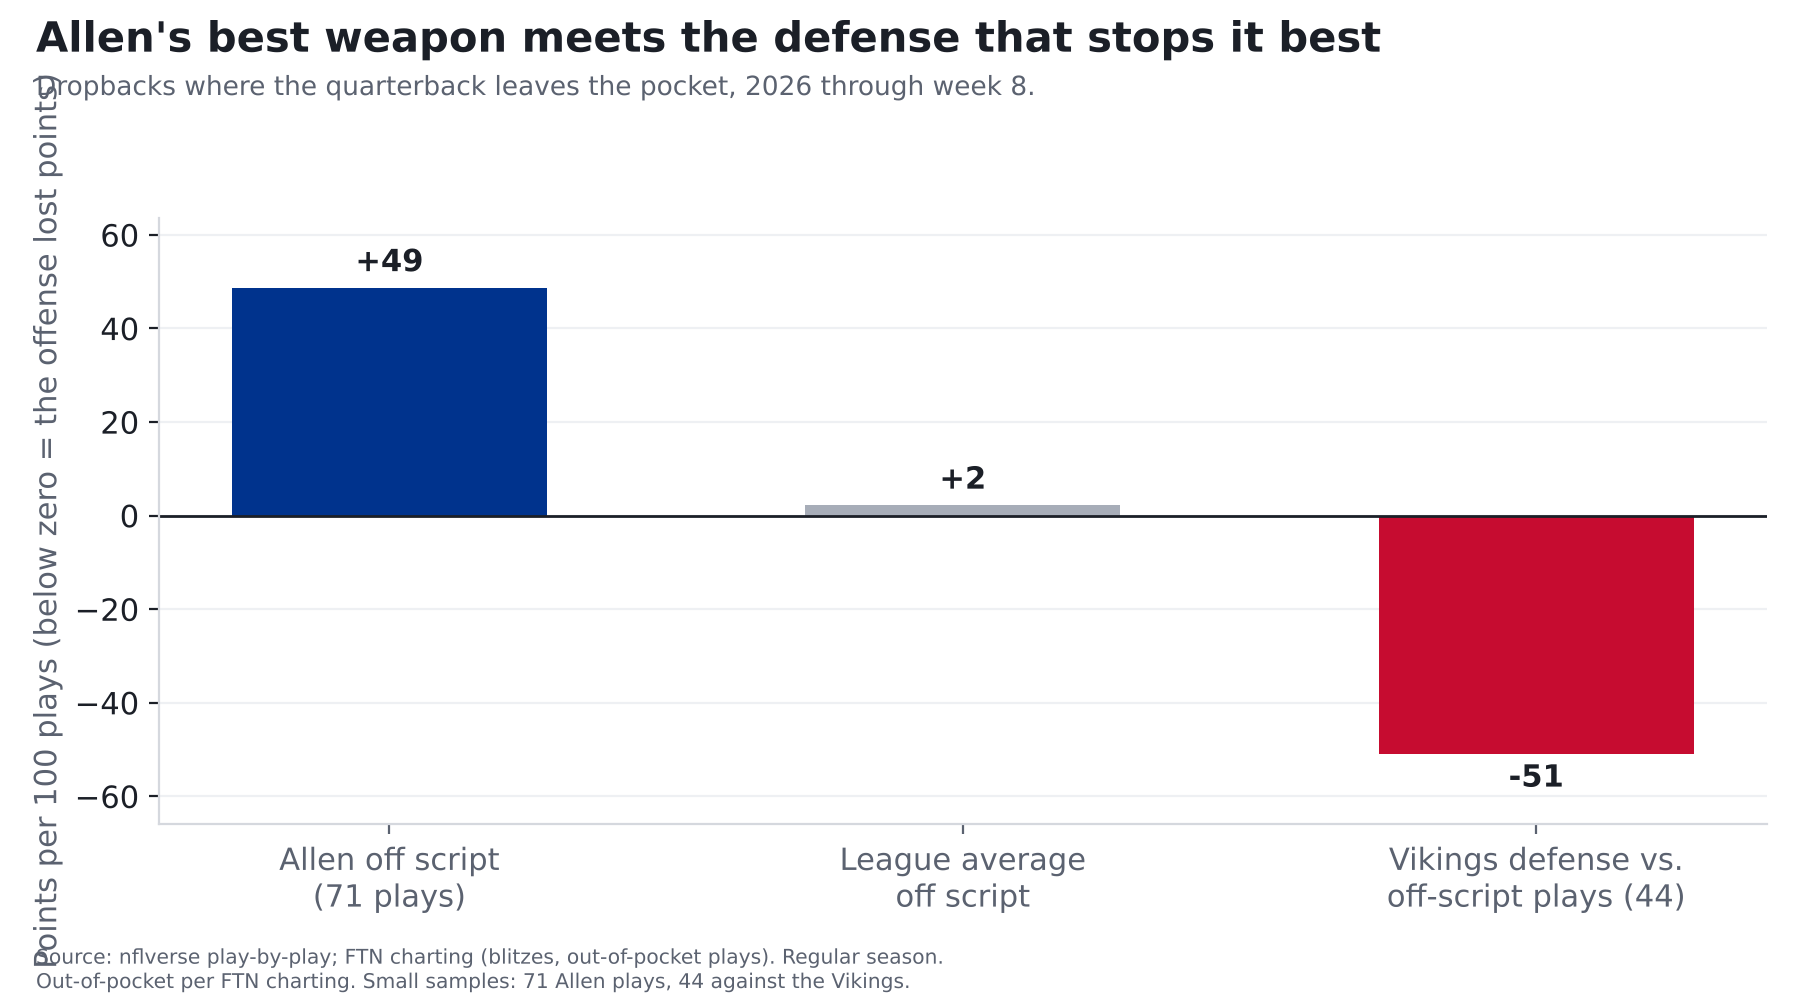
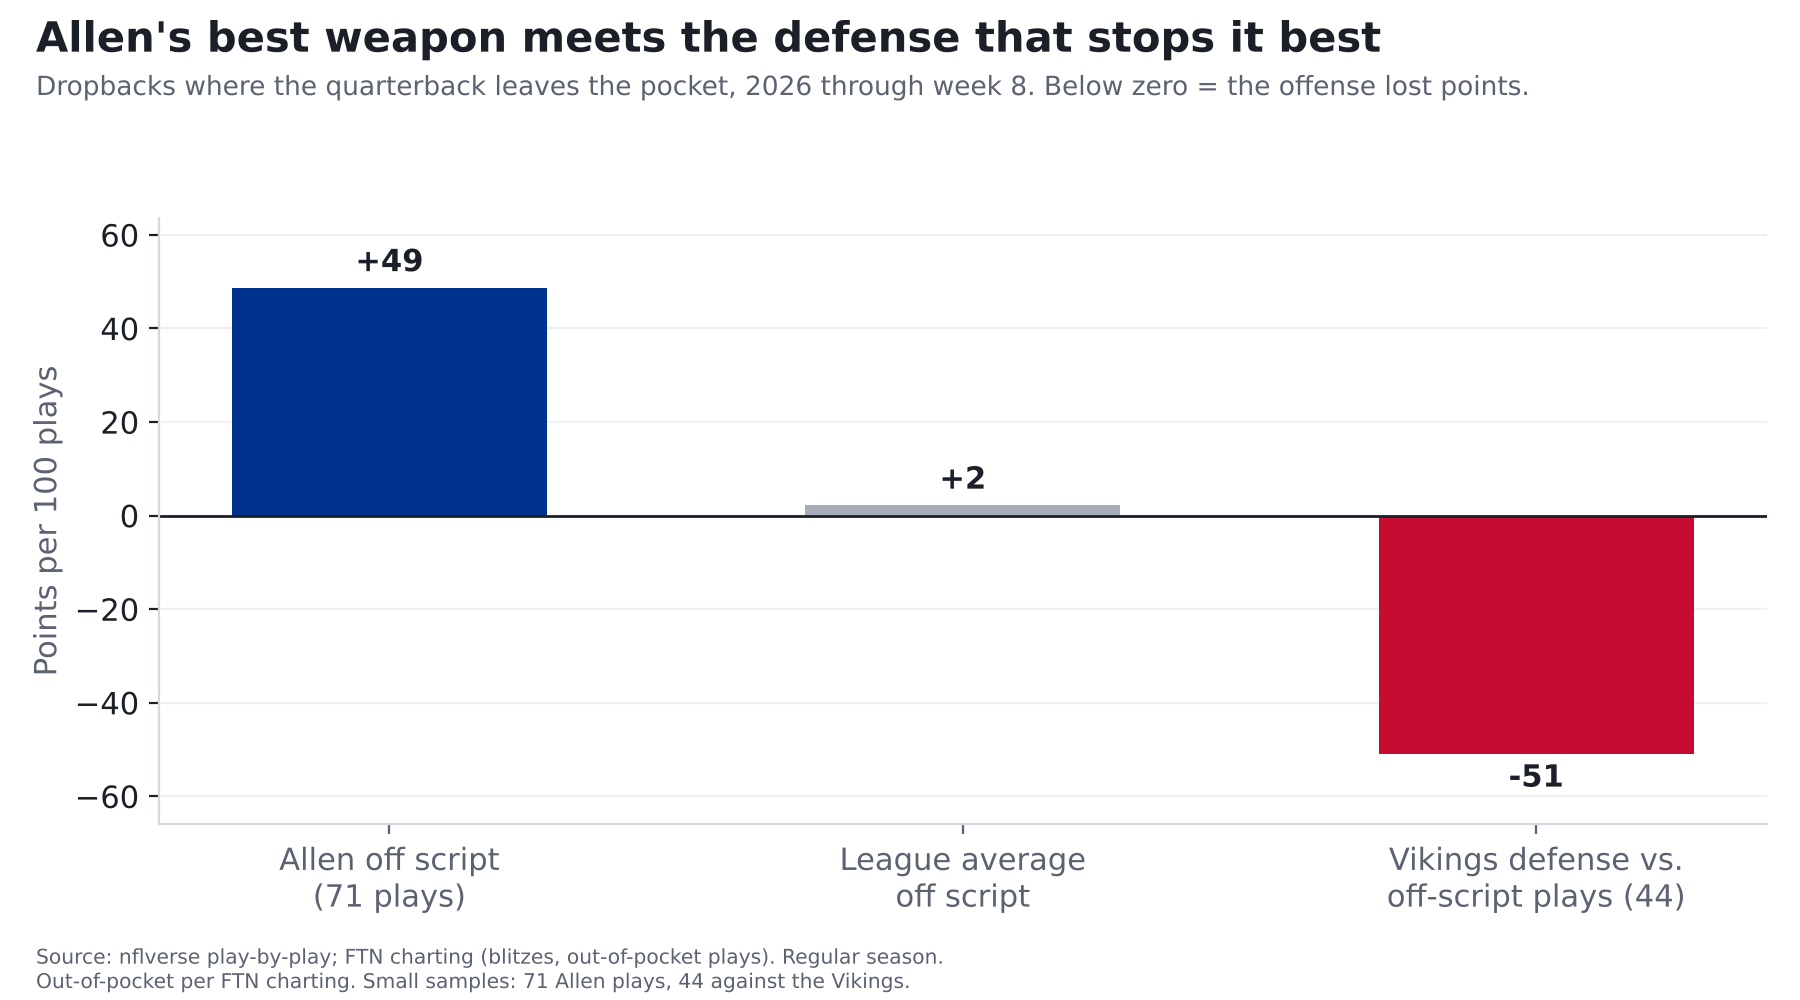
Part 2: shorter off-script chart label
Claude-Session: https://claude.ai/code/session_01EpbAX7fMNT8LnsxAN6UoCp

diff --git a/src/reports/wk09_bills_offense_vs_vikings_defense.py b/src/reports/wk09_bills_offense_vs_vikings_defense.py
@@ -253,9 +253,9 @@ def main():
     for i, v in enumerate(vals):
         ax.text(i, v + (2 if v >= 0 else -2), h(v / 100), ha="center", va="bottom" if v >= 0 else "top", fontsize=11, color=INK, fontweight="bold")
     ax.axhline(0, color=INK, lw=1); ax.set_ylim(min(vals) - 15, max(vals) + 15)
-    ax.set_ylabel("Points per 100 plays (below zero = the offense lost points)"); ax.grid(axis="y", color="#EEF0F3"); ax.set_axisbelow(True)
+    ax.set_ylabel("Points per 100 plays"); ax.grid(axis="y", color="#EEF0F3"); ax.set_axisbelow(True)
     finish(fig, "Allen's best weapon meets the defense that stops it best",
-           f"Dropbacks where the quarterback leaves the pocket, 2026 through week {AS_OF_WEEK}.",
+           f"Dropbacks where the quarterback leaves the pocket, 2026 through week {AS_OF_WEEK}. Below zero = the offense lost points.",
            f"Out-of-pocket per FTN charting. Small samples: {allen_oop_n} Allen plays, {int(min_oop.n)} against the Vikings.")
     fig.savefig(OUT / "wk09-offscript.png"); plt.close(fig)
 
